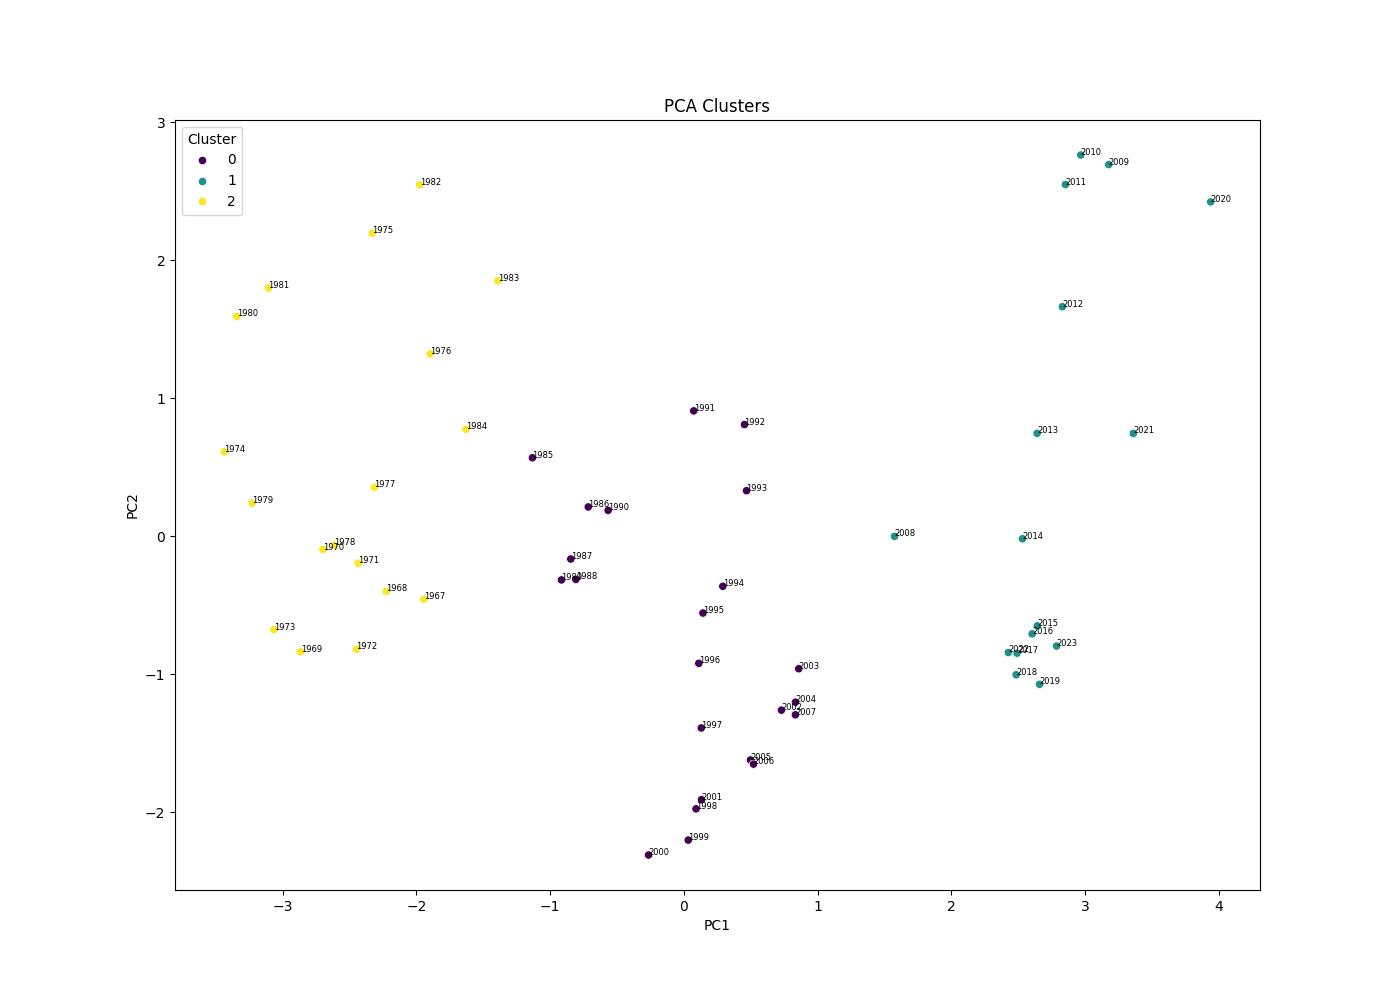
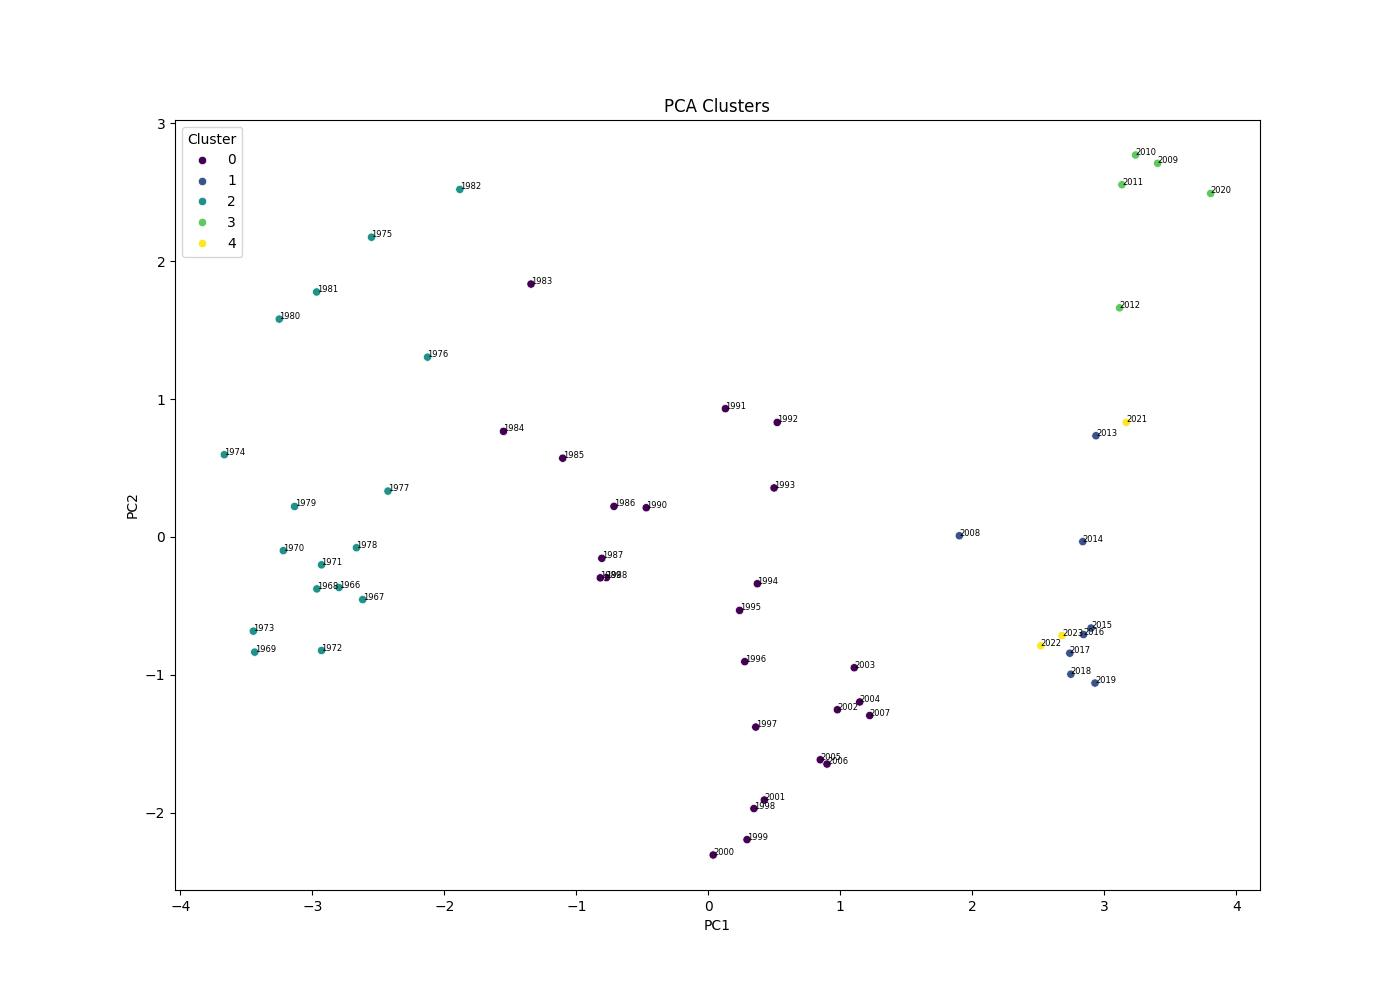
added life expectancy

diff --git a/process.py b/process.py
@@ -4,8 +4,9 @@ from pathlib import Path
 # Define the path to the folder containing the CSV files
 folder_path = 'raw'
 
+min_year = 1966
 # Initialize a dictionary to store aggregated data
-data_dict = {year: [] for year in range(1967, 2024)}
+data_dict = {year: [] for year in range(min_year, 2024)}
 
 def extract_year(date_str):
     try:
@@ -23,9 +24,9 @@ for filename in os.listdir(folder_path):
         df = pd.read_csv(file_path)
         df['Year'] = df.iloc[:, 0].apply(extract_year)
 
-        df_filtered = df[(df['Year'] >= 1967) & (df['Year'] <= 2023)]
+        df_filtered = df[(df['Year'] >= min_year) & (df['Year'] <= 2023)]
 
-        for year in range(1967, 2024):
+        for year in range(min_year, 2024):
             value = df_filtered[df_filtered['Year'] == year].iloc[:, 1].mean()
             data_dict[year].append(value)
     rows.append(name)

diff --git a/kmeans.py b/kmeans.py
@@ -31,7 +31,7 @@ plt.savefig('./figures/elbow.jpg')
 plt.close()
 
 
-optimal_k = 3
+optimal_k = 4
 
 #kmeans
 kmeans = KMeans(n_clusters=optimal_k, random_state=42)
